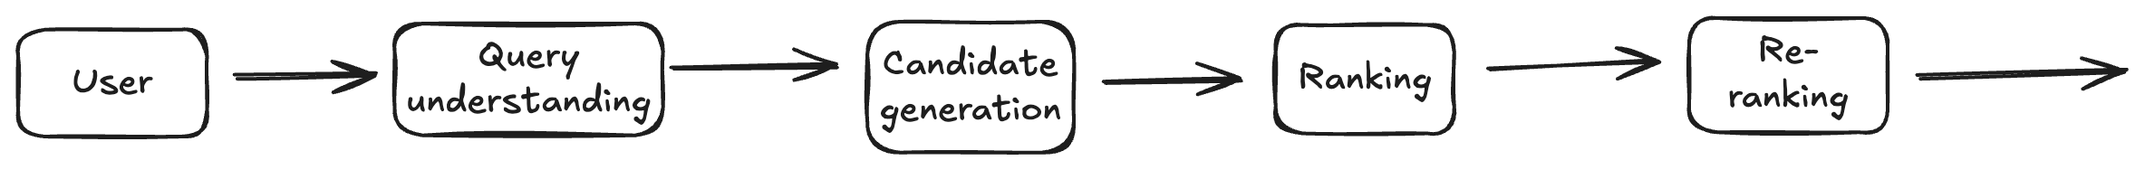
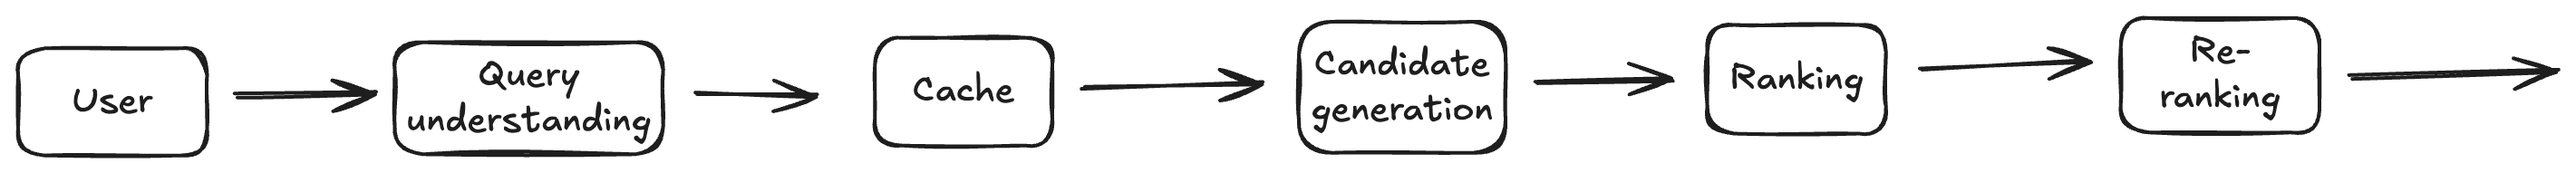
update

diff --git a/machine-learning-system-design/1-product-search.html b/machine-learning-system-design/1-product-search.html
@@ -63,10 +63,10 @@ Does each product have category? Yes
 Can each product have more than one category? Yes
 Should search result be personalized to user? Yes
 Should search allow filters? Yes
-Should search result be sorted? Yes
+Should search result be allowed to be sorted? Yes
 How often is the product updated? Once every 6 months on average
 
-Is there training data available? No, user-product interaction data only
+Is there training data available? No, user-product (under each search) interaction data only
 How fast should the system show search results? Under 200ms
 How many products are there in system? 1B
 
@@ -79,21 +79,7 @@ Business problem
 
 # High-Level Design
 
-User -> Query Understanding -> Cache -> Candidate Generation -> Ranking -> Re-ranking ->
-
-Query Understanding
-  Spell correction
-  Query expansion
-  Query embedding
-Candidate Generation
-  Inverted index
-  Vector search
-Ranking
-  Learn-to-rank
-Re-ranking
-  Diversity
-  Freshness
-  Business rules
+User -> Query understanding -> Cache -> Candidate generation -> ranking -> Re-ranking ->
 
 # Data and Feature Engineering
 
@@ -103,16 +89,13 @@ Training data
   Each data point is associated with query
 
 Features
-  Query
-    Query length
-  Query-product
-    Reviews, price, text description, number of comments, comments, number of views, image, video, number of purchase, total $ amount of purchase
-  User
-    Gender, age
+  Query - query length
+  Product - reviews, price, text description, number of comments, comments, number of views, image, video, number of purchase, total $ amount of purchase
+  User - gender, age
 
 Feature engineering
   Numerical (number of comments, number of purchase, age, price, review) - standardize (Mean 0, Var 1)
-  Categorical dense (gender) - one-hot 
+  Categorical dense (gender) - one-hot or embedding
   Categorical sparse (user_id, product_id) - embedding to learn
   Text (search term, comment, description) - BERT
   Image/video - CLIP
@@ -120,35 +103,60 @@ Feature engineering
 # Model Development
 
 Baseline
-  Logistic regression to determin if product is relevant to query
+  Logistic regression to determine, given query, if product is relevant to to user
 
 Architecture
   Candidate generation
-    Lexical search - inverted index, BM25
-    Vector search - ANN, FAISS
+    Find similarity between query embedding and product embedding
+    Use ANN to generate 10k candidates
   Ranking
     Learn-to-rank
-    Find similarity between embedding of search term and product
+    Find similarity between embedding of user and product
+  Re-ranking
+    Diversity
+    Freshness
 
 Training
-  Loss - binary classification to determine if user finds the product relevant (cross-entropy or log-loss)
+  Ranking 
+    Loss - binary classification to determine if user finds the product relevant (cross-entropy or log-loss)
 
-# Inference and Evaluation
+# Evaluation
 
 Offline
-  Candidate generation - recall
+  Candidate generation - recall@k
   Ranking - NDCG
 
 Online
-  A/B testing
+  Revenue increase
 
 # Detailed Design
 
-Scalability
+Query understanding
+  Spell correction
+  Query expansion
+  Query embedding
+
+Cache
+  Store search result in cache (for each age and gender group) and return it
+
+Candidate generation
+  Use batch features from feature store
+    Pre-compute features for possible queries
+    Use product features that don't change often (text description, image, video)
+  Compute this offline
+
+Ranking
+  Use batch features from feature store
+    User features don't change often
+  Process dynamic features on the fly (product - number of views, reviews, etc)
+  
+Re-ranking
+  Diversity - penalize products from same vendor
+  Freshness - penalize old product
+  Business rules
 </code></pre>
 
-    <img class="img-fluid" class="card-img-top" src="/machine-learning-system-design/image/mlsd-1/1-3-1.png" alt="Card image cap">
-    <img class="img-fluid" class="card-img-top" src="/machine-learning-system-design/image/mlsd-1/1-3-2.png" alt="Card image cap">
+    <img class="img-fluid" class="card-img-top" src="/machine-learning-system-design/image/mlsd-1/product-search-1.png" alt="Card image cap">
   </div>
   <div class="card-footer text-muted">
     Reference: 

diff --git a/machine-learning-system-design/0-machine-learning-system-design.html b/machine-learning-system-design/0-machine-learning-system-design.html
@@ -60,6 +60,7 @@
         <li><a href="/machine-learning-system-design/1-harmful-content-detection.html">Harmful Content Detection</a></li>
         <li><a href="/machine-learning-system-design/1-product-search.html">Product Search</a></li>
         <li><a href="/machine-learning-system-design/1-fraud-detection.html">Fraud Detection</a></li>
+        <!-- <li><a href="/machine-learning-system-design/1-churn-prediction.html">Churn Prediction</a></li> -->
         <li><a href="/machine-learning-system-design/1-chatbot.html">Chatbot</a></li>
       </ul>
       <li>ML Infra Design <strong>(in-scope)</strong></li>
